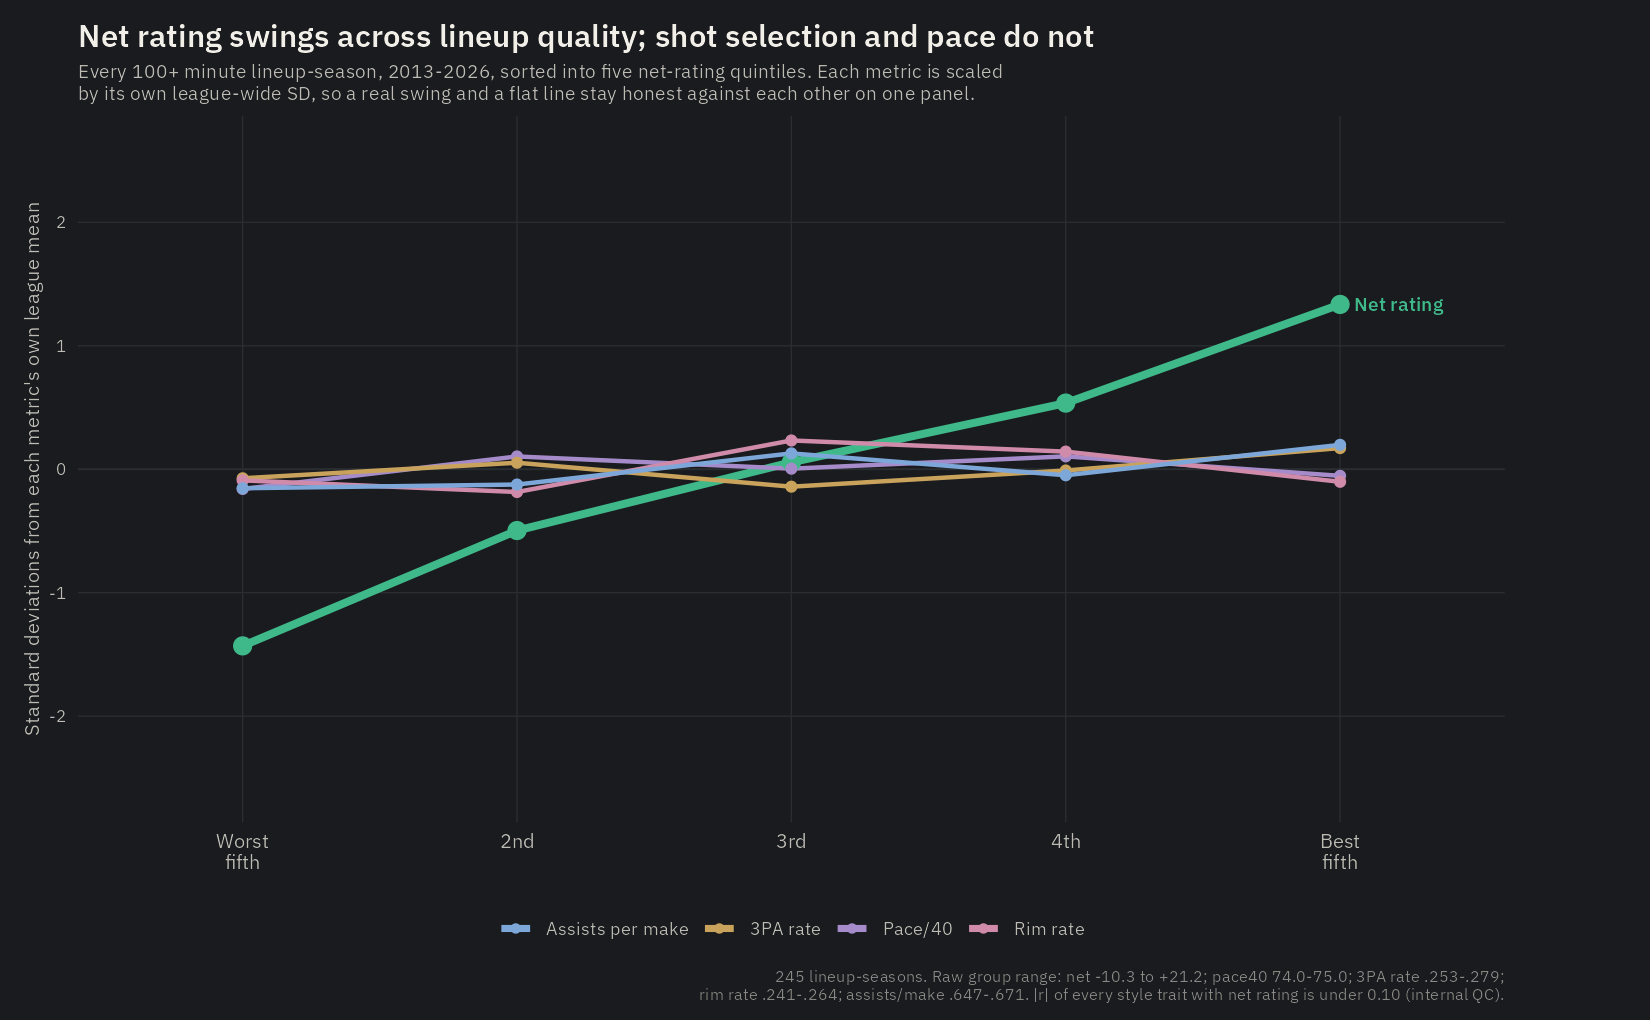
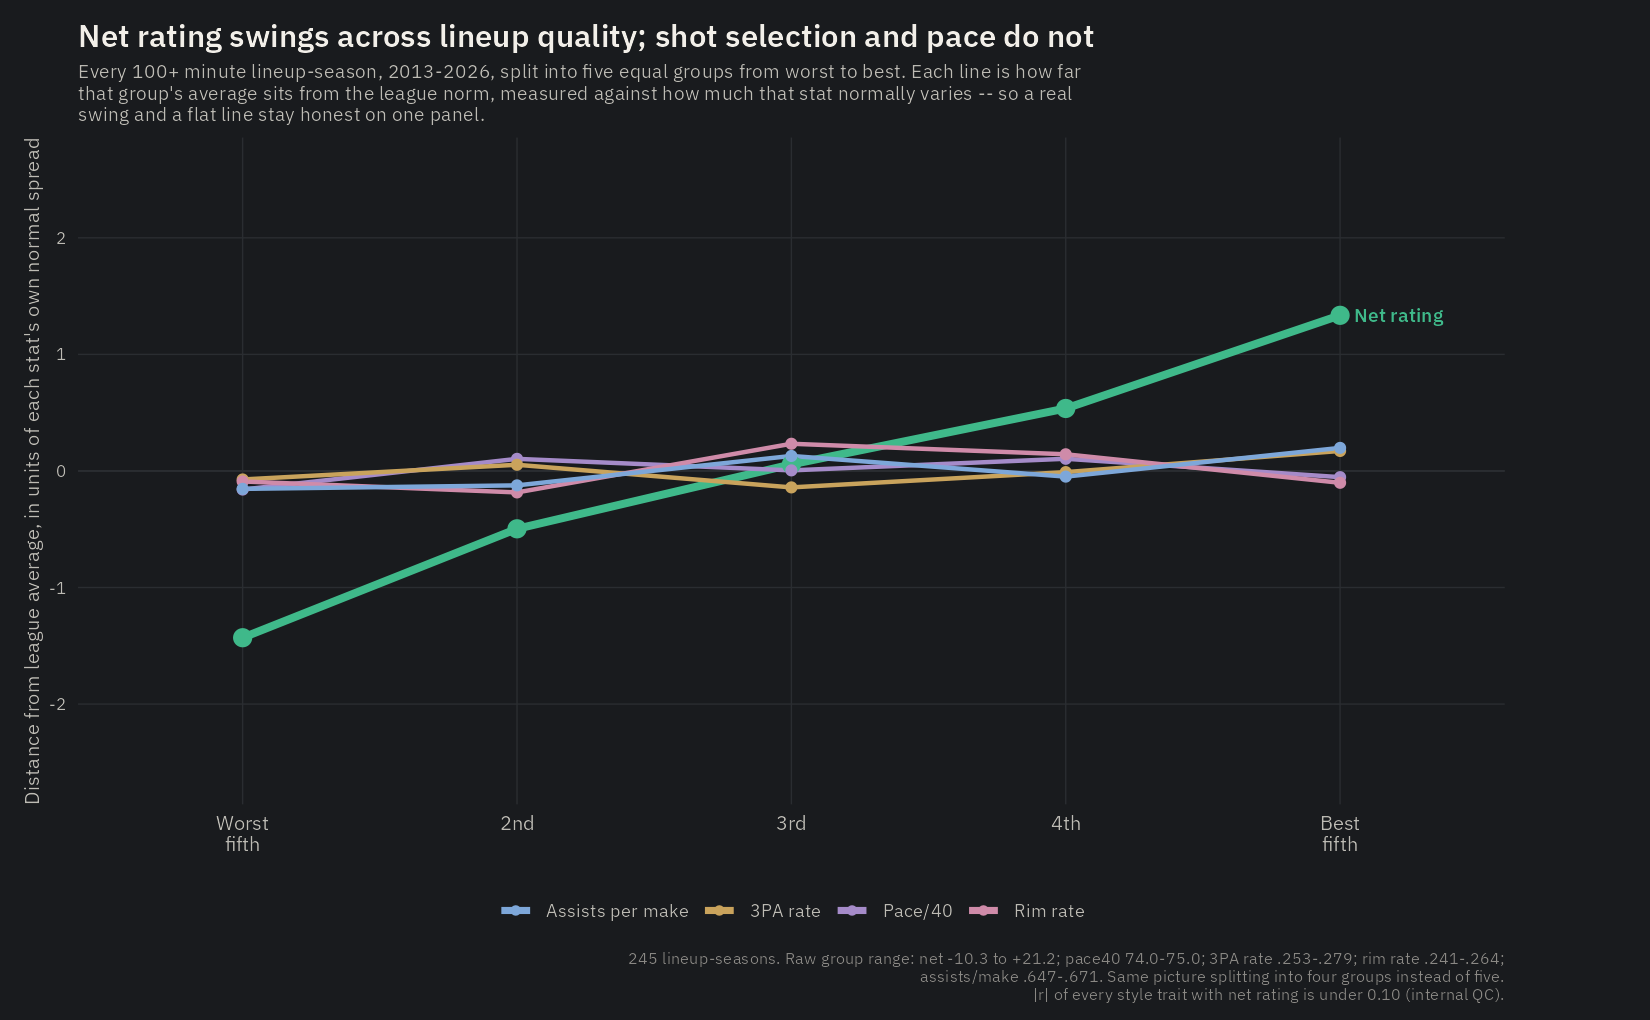
Plain-language chart text: drop quintile/SD jargon, note quartile robustness

diff --git a/src/content/projects/wnba-best-lineups.md b/src/content/projects/wnba-best-lineups.md
@@ -40,8 +40,8 @@ Every 100-plus-minute lineup-season from 2013 through 2026, sorted into five equ
 | Best fifth | +21.2 | 74.4 | .279 | .246 | .671 |
 
 <figure>
-  <img src="/images/wnba-lineups/style-vs-net-rating.png" alt="Line chart showing net rating rising sharply from the worst to best lineup quintile while pace, three-point rate, rim rate, and assists per make stay essentially flat" />
-  <figcaption>245 lineup-seasons, sorted into five net-rating quintiles. Each style metric is scaled by its own league-wide standard deviation; net rating is the only line that moves.</figcaption>
+  <img src="/images/wnba-lineups/style-vs-net-rating.png" alt="Line chart showing net rating rising sharply from the worst fifth of lineups to the best while pace, three-point rate, rim rate, and assists per make stay essentially flat" />
+  <figcaption>245 lineup-seasons, split into five equal groups from worst to best. Each stat is measured against how much it normally varies across lineups; net rating is the only line that moves.</figcaption>
 </figure>
 
 A 31-point swing in net rating, and the best lineups play half a possession per 40 faster than the worst, take two more threes per 100 shots, and get to the rim at literally the same rate, .246 in both groups. Underneath that flat style line, offensive rating runs from 102.6 to 120.7 and defensive rating from 112.9 to 99.5 across the same five groups. Good lineups are not running a different offense. They are running the same one and making it, and stopping the other team from making theirs.
